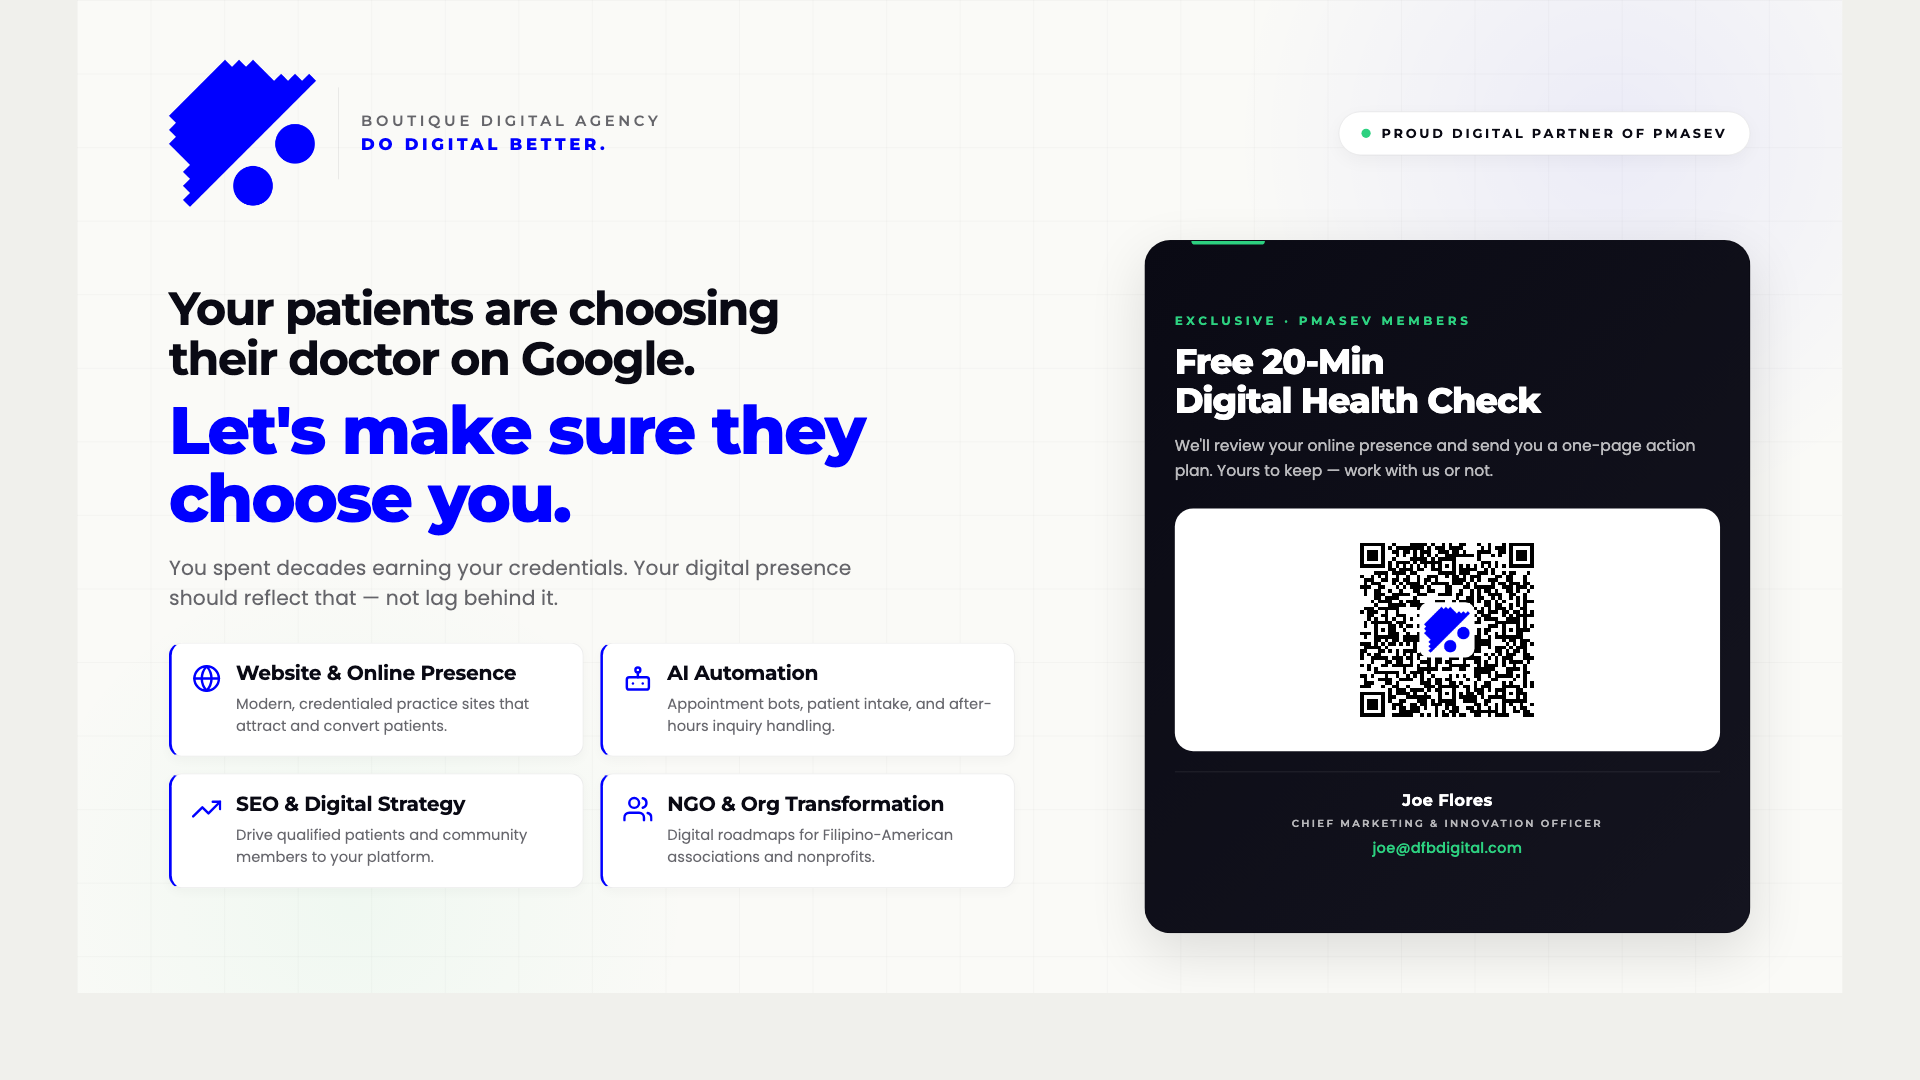
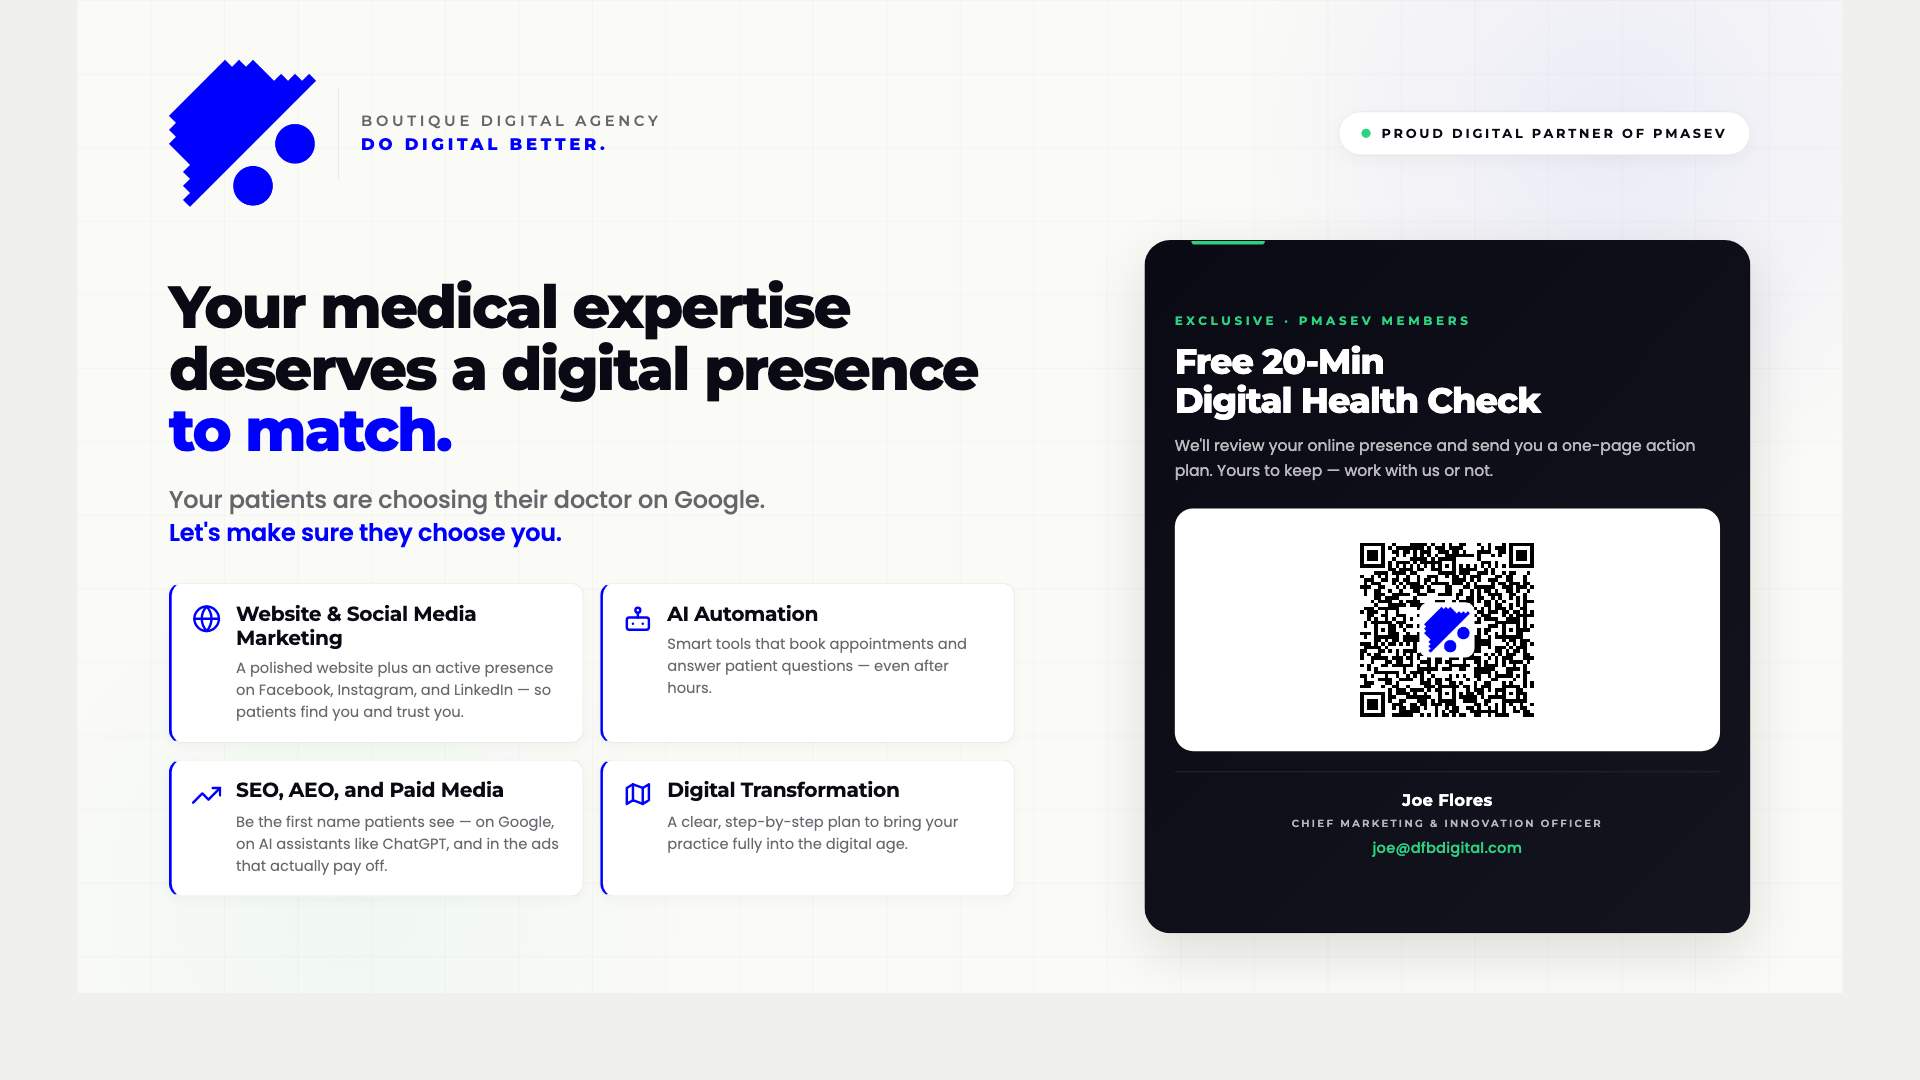
Refine PMASEV light slide copy and services for boomer audience
Promotes "Your medical expertise deserves a digital presence to match"
to the headline; demotes the patients-on-Google line to the subhead.
Renames services for clarity: Website & Social Media Marketing,
AI Automation, SEO/AEO/Paid Media, Digital Transformation. Descriptions
rewritten in plainer, outcome-first language.

Changed region(s): [[0.0625, 0.2444, 0.5312, 0.6722], [0.0938, 0.7028, 0.2812, 0.825], [0.3125, 0.7028, 0.5, 0.7944]]

diff --git a/public/slides/pmasev-light.html b/public/slides/pmasev-light.html
@@ -152,35 +152,31 @@
     justify-content: center;
   }
   .headline {
-    margin-bottom: 22px;
-  }
-  .headline-setup {
-    display: block;
-    font-family: 'Montserrat', sans-serif;
-    font-weight: 700;
-    font-size: 50px;
-    line-height: 1.08;
-    letter-spacing: -1.5px;
-    color: var(--ink);
-    margin-bottom: 14px;
-  }
-  .headline-punch {
     display: block;
     font-family: 'Montserrat', sans-serif;
     font-weight: 800;
-    font-size: 72px;
-    line-height: 1.02;
+    font-size: 64px;
+    line-height: 1.04;
     letter-spacing: -2px;
+    color: var(--ink);
+    margin-bottom: 24px;
+  }
+  .headline em {
+    font-style: normal;
     color: var(--blue);
   }
   .subhead {
-    font-size: 22px;
-    line-height: 1.5;
+    font-size: 26px;
+    line-height: 1.4;
     color: var(--text-mute);
-    font-weight: 400;
-    letter-spacing: 0.2px;
-    margin-bottom: 32px;
-    max-width: 760px;
+    font-weight: 500;
+    letter-spacing: -0.2px;
+    margin-bottom: 36px;
+    max-width: 820px;
+  }
+  .subhead strong {
+    color: var(--blue);
+    font-weight: 700;
   }
   /* Service cards */
   .services {
@@ -378,16 +374,13 @@
       <div class="body">
         <div class="left-col">
           <h1 class="headline">
-            <span class="headline-setup">
-              Your patients are choosing<br>
-              their doctor on Google.
-            </span>
-            <span class="headline-punch">
-              Let's make sure they choose&nbsp;you.
-            </span>
+            Your medical expertise<br>
+            deserves a digital presence<br>
+            <em>to&nbsp;match.</em>
           </h1>
           <p class="subhead">
-            You spent decades earning your credentials. Your digital presence should reflect that — not lag behind it.
+            Your patients are choosing their doctor on Google.<br>
+            <strong>Let's make sure they choose&nbsp;you.</strong>
           </p>
 
           <div class="services">
@@ -398,8 +391,8 @@
                 <path d="M12 2a15.3 15.3 0 0 1 4 10 15.3 15.3 0 0 1-4 10 15.3 15.3 0 0 1-4-10 15.3 15.3 0 0 1 4-10z"></path>
               </svg>
               <div class="service-text">
-                <div class="service-title">Website &amp; Online Presence</div>
-                <div class="service-desc">Modern, credentialed practice sites that attract and convert patients.</div>
+                <div class="service-title">Website &amp; Social Media Marketing</div>
+                <div class="service-desc">A polished website plus an active presence on Facebook, Instagram, and LinkedIn — so patients find you and trust you.</div>
               </div>
             </div>
 
@@ -413,7 +406,7 @@
               </svg>
               <div class="service-text">
                 <div class="service-title">AI Automation</div>
-                <div class="service-desc">Appointment bots, patient intake, and after-hours inquiry handling.</div>
+                <div class="service-desc">Smart tools that book appointments and answer patient questions — even after hours.</div>
               </div>
             </div>
 
@@ -423,21 +416,20 @@
                 <polyline points="17 6 23 6 23 12"></polyline>
               </svg>
               <div class="service-text">
-                <div class="service-title">SEO &amp; Digital Strategy</div>
-                <div class="service-desc">Drive qualified patients and community members to your platform.</div>
+                <div class="service-title">SEO, AEO, and Paid Media</div>
+                <div class="service-desc">Be the first name patients see — on Google, on AI assistants like ChatGPT, and in the ads that actually pay off.</div>
               </div>
             </div>
 
             <div class="service">
               <svg class="service-icon" viewBox="0 0 24 24" fill="none" stroke="currentColor" stroke-width="2" stroke-linecap="round" stroke-linejoin="round">
-                <path d="M17 21v-2a4 4 0 0 0-4-4H5a4 4 0 0 0-4 4v2"></path>
-                <circle cx="9" cy="7" r="4"></circle>
-                <path d="M23 21v-2a4 4 0 0 0-3-3.87"></path>
-                <path d="M16 3.13a4 4 0 0 1 0 7.75"></path>
+                <polyline points="3 6 3 19 8 16 16 19 21 16 21 3 16 6 8 3 3 6"></polyline>
+                <line x1="8" y1="3" x2="8" y2="16"></line>
+                <line x1="16" y1="6" x2="16" y2="19"></line>
               </svg>
               <div class="service-text">
-                <div class="service-title">NGO &amp; Org Transformation</div>
-                <div class="service-desc">Digital roadmaps for Filipino-American associations and nonprofits.</div>
+                <div class="service-title">Digital Transformation</div>
+                <div class="service-desc">A clear, step-by-step plan to bring your practice fully into the digital age.</div>
               </div>
             </div>
           </div>
